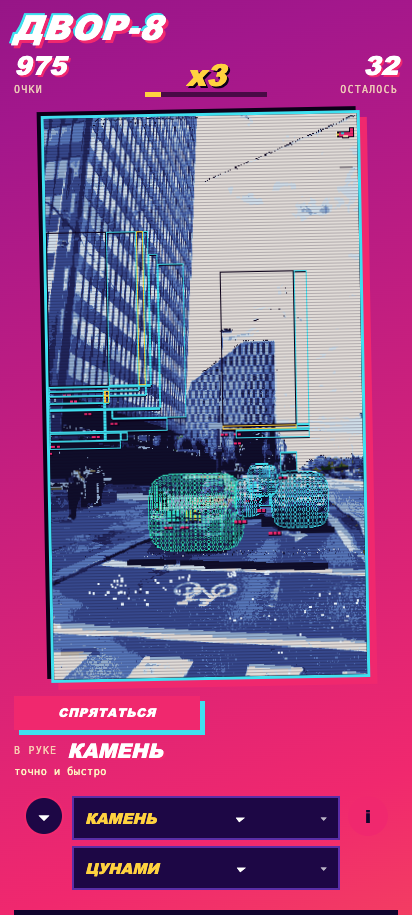
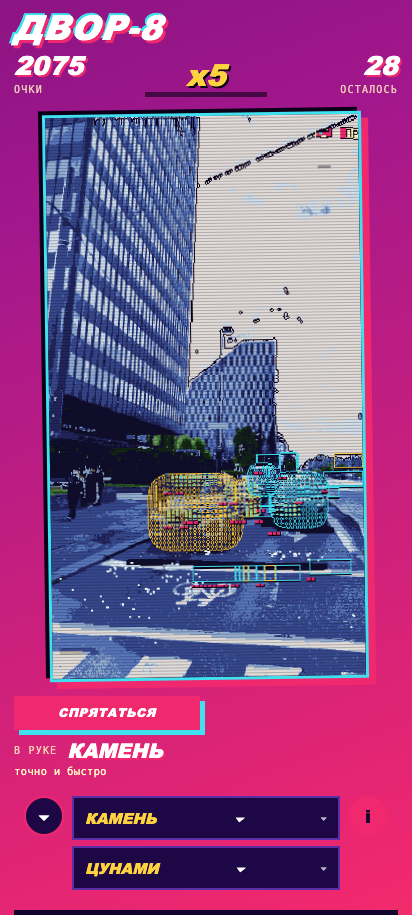
The prototype is complete: v9's three items applied, and the whole set validated
THE FUNCTIONAL PROTOTYPE, all modules in place and validated:
  the info tap OWNS THE GESTURE (it used to fall through to the throw handler on the same element, so
  in info mode a tap both described a thing and threw the stone - which is exactly what "info button
  doesn't work" feels like); the thing stays marked until the next tap
  the facade's chunks follow THE PHOTOGRAPH'S OWN COLUMN AND FLOOR SPACING (the median width and
  height of the windows found on that facade) instead of a guessed 22 px pitch
  EVERY BUILDING GETS ITS 1-PX OUTLINE AGAINST THE SKY, by v9's exact rule: a pixel that IS sky with a
  neighbour that is NOT gets the shared outline colour - one line, in the darkest palette colour,
  along the photograph's real skyline
  the sky is v9's design (one blue, a horizon band, three cloud tones) and the two sky rows now agree
  at ten entries instead of one demanding eight

VALIDATION on the creator's Prague photograph, clean frame, no page errors:
  320 checks, 0 FAIL
  GATE 8 OK / 0 FAIL
  181 window sprites · 16 palette entries on the road · sky 9 colours with 46% of the band in ONE tone
  a full run: 28 things, the yard taken to its destroyed state (score 2075), the tsunami through its
  three beats

diff --git a/src/main.js b/src/main.js
@@ -1010,6 +1010,7 @@ function throwAt(at) {
 // lifting, and only if the finger did not travel. Everywhere else a throw is on touch, with no wait.
 tiltEl.addEventListener('pointermove', (e) => {
   if (stage !== 'play' || !world || press) return;
+  if (infoOn) { aimAt(...Object.values(toWorld(e))); return; }        // info mode aims but never throws
   const at = toWorld(e);
   aimAt(at.x, at.y);
 }, { passive: true });
@@ -1148,11 +1149,18 @@ $('fateBtn')?.addEventListener('click', () => { if (stage === 'play') summonDisa
   });
   tiltEl.addEventListener('pointermove', (e) => {
   if (stage !== 'play' || !world || press) return;
+  if (infoOn) { aimAt(...Object.values(toWorld(e))); return; }        // info mode aims but never throws
   const at = toWorld(e);
   aimAt(at.x, at.y);
 }, { passive: true });
 tiltEl.addEventListener('pointerdown', (e) => {
     if (!infoOn || stage !== 'play' || !world) return;
+    // THE INFO TAP OWNS THE GESTURE. It used to fall through to the throw handler on the same element, so in info
+    // mode a tap both described a thing and threw the stone at it - "info button doesn't work" is exactly what
+    // that feels like. The event stops here, and the thing stays marked until the next tap (v9 keeps its
+    // selection and blinks it, rather than flashing it away).
+    e.stopPropagation();
+    e.preventDefault();
     const at = toWorld(e);
     const t = pick(world, at.x, at.y);
     // THE OBJECT IS OUTLINED WHILE IT IS DESCRIBED. Info mode was returning a line of text about a thing the

diff --git a/src/vector.js b/src/vector.js
@@ -1037,6 +1037,29 @@ export function trace(rgba, w, h, opts = {}) {
     skys = { skyTones, band, cloudA, cloudB, cloudC };
   }
 
+  // ---- 5i. EVERY BUILDING GETS ITS 1-PX OUTLINE AGAINST THE SKY (v9's L4) --------------------------
+  //
+  // v9's rule, verbatim: "an object's edge is every pixel that touches a pixel of another object. Buildings get a
+  // 1-px outline against the sky." The sky is known exactly at this point, so the rule is exact: a pixel that IS
+  // sky and has a neighbour that is NOT gets the shared outline colour. That is one line, in the darkest palette
+  // colour, along the real skyline of the photograph - not a drawn skyline and not a box.
+  {
+    const OUTS = palette.length - 2;
+    let drawn = 0;
+    for (let y = 1; y < h - 1; y += 1) {
+      for (let x = 1; x < w - 1; x += 1) {
+        const p2 = y * w + x;
+        if (!sky[p2]) continue;
+        if (sky[p2 - 1] && sky[p2 + 1] && sky[p2 - w] && sky[p2 + w]) continue;
+        if (idx[p2] === OUTS) continue;
+        if (cls[p2] === 2) continue;                        // vegetation keeps its own ramp (R15)
+        idx[p2] = OUTS;
+        drawn += 1;
+      }
+    }
+    if (drawn) sky.__edge = drawn;
+  }
+
   // ---- 6. designed clouds, and one line along the skyline ------------------------------------------------
   const cloudColour = skys ? skys.cloudA : entryFor(palette, 250, 250, 252);
   const cloudShade = skys ? skys.cloudC : entryFor(palette, 198, 214, 232);

diff --git a/src/world.js b/src/world.js
@@ -159,7 +159,14 @@ export const CELL = 22;
 
 export function cellsOf(world, s) {
   if (!s.cells) {
-    const cols = Math.max(1, Math.round(s.w / CELL)), rows = Math.max(1, Math.round(s.h / CELL));
+    // V9'S L5: the chunks follow THE PHOTOGRAPH'S OWN COLUMN AND FLOOR SPACING where the facade has a rhythm.
+    // A structure carries the windows found on it; their median width is the bay, their median height the storey.
+    // A fixed 22 px pitch was a guess about a building the photograph had already measured for us.
+    const win = s.windows && s.windows.length ? s.windows : null;
+    const med = (xs) => { const a2 = xs.slice().sort((x, y) => x - y); return a2[Math.floor(a2.length / 2)] || 0; };
+    const pitchW = win ? Math.max(6, med(win.map((q) => q.w))) : CELL;
+    const pitchH = win ? Math.max(6, med(win.map((q) => q.h))) : CELL;
+    const cols = Math.max(1, Math.round(s.w / pitchW)), rows = Math.max(1, Math.round(s.h / pitchH));
     s.cells = { cols, rows, cw: s.w / cols, ch: s.h / rows, gone: new Set() };
   }
   return s.cells;
